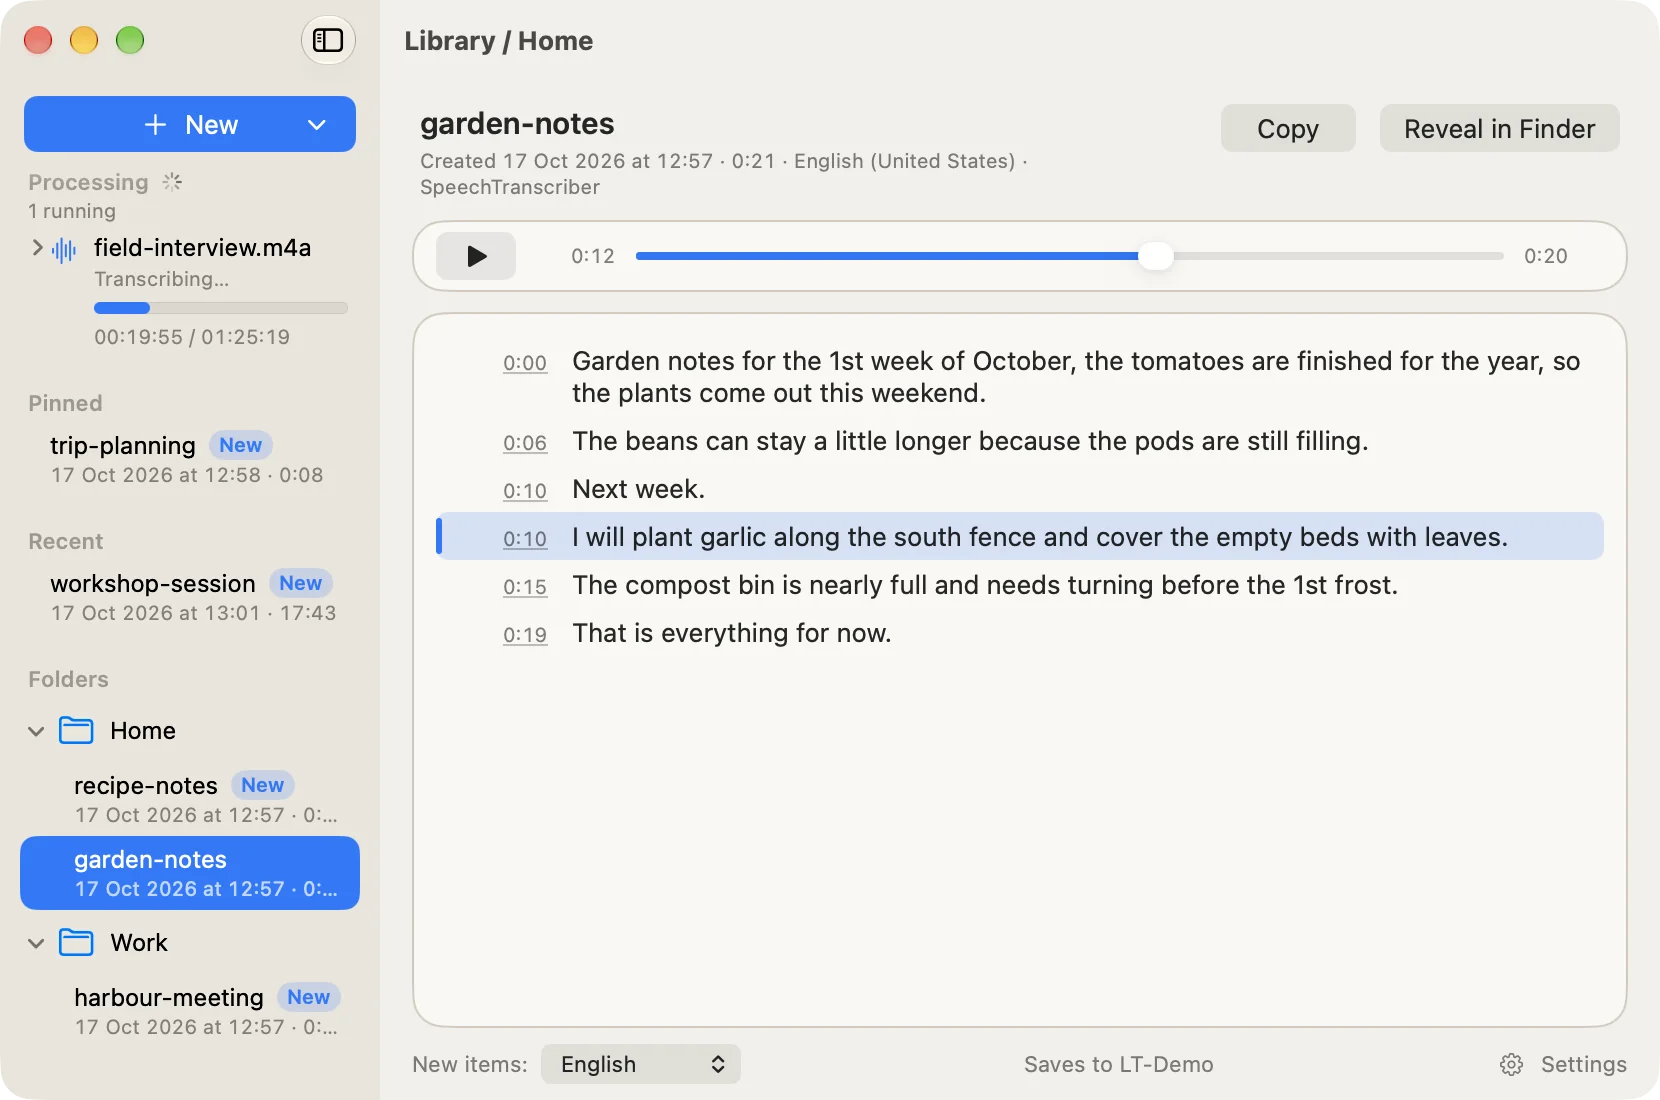
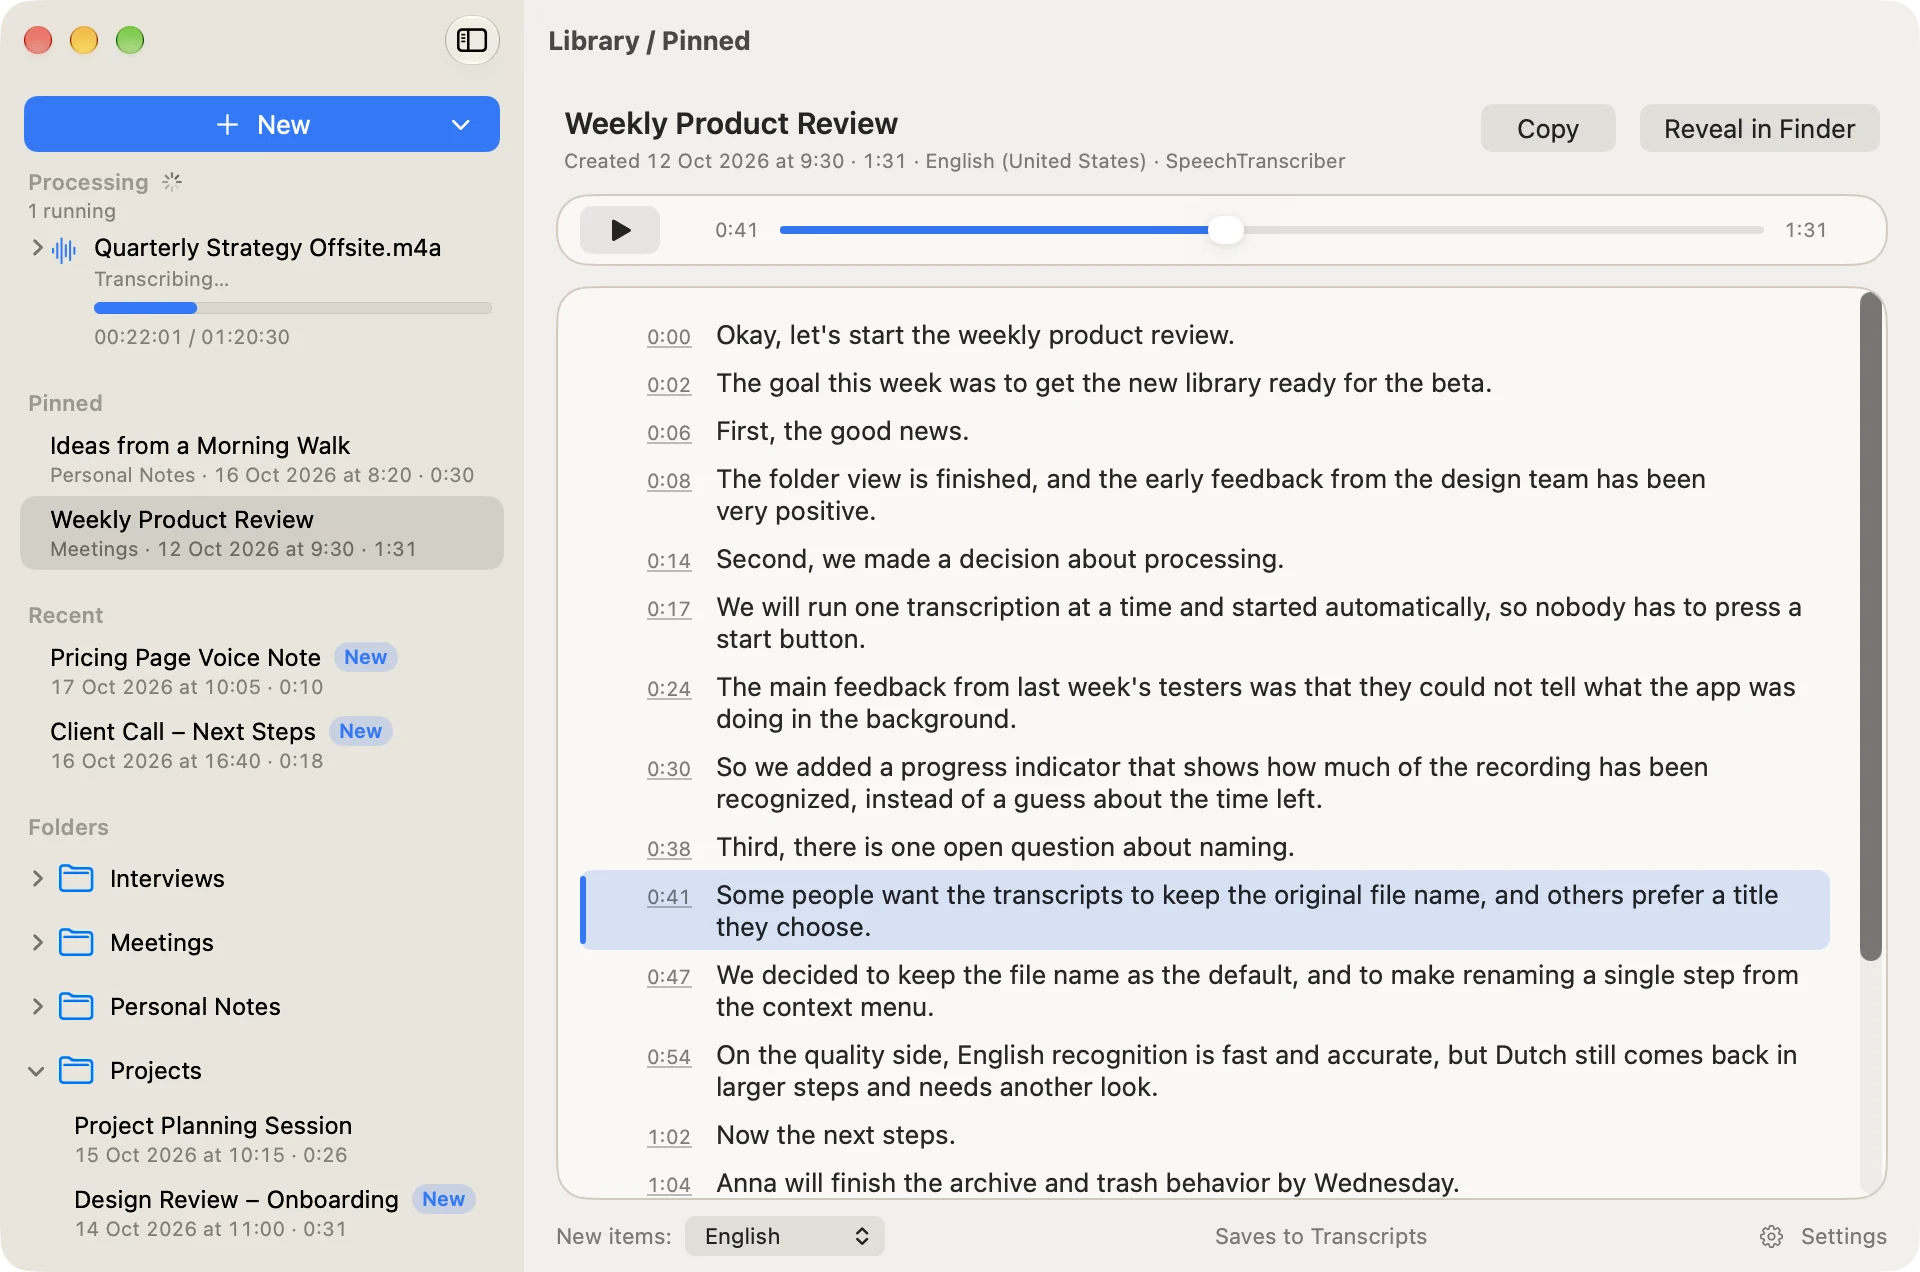
docs(website): full-window product hero, demo-library screenshot, matching social preview (LTR-62)

Changed region(s): [[0.0, 0.0, 0.9831, 0.9891], [0.7681, 0.0927, 0.9831, 0.1236]]

diff --git a/website/index.html b/website/index.html
@@ -17,12 +17,12 @@
 <meta property="og:image:type" content="image/png">
 <meta property="og:image:width" content="1200">
 <meta property="og:image:height" content="630">
-<meta property="og:image:alt" content="Local Transcriber: Media in. Markdown out. The app window with a sidebar showing a transcription in progress, a pinned transcript and folders, beside an open transcript with its current line highlighted.">
+<meta property="og:image:alt" content="Local Transcriber: Media in. Markdown out. The Local Transcriber window with a transcription in progress, pinned and recent transcripts and folders, and an open transcript with its current line highlighted.">
 <meta name="twitter:card" content="summary_large_image">
 <meta name="twitter:title" content="Local Transcriber - Media in. Markdown out.">
 <meta name="twitter:description" content="A native macOS app that turns audio, video, YouTube links and your own recordings into timestamped Markdown transcripts, with speech recognition on your Mac.">
 <meta name="twitter:image" content="https://transcribe.wavesweb.nl/og.png">
-<meta name="twitter:image:alt" content="Local Transcriber: Media in. Markdown out. The app window with a sidebar showing a transcription in progress, a pinned transcript and folders, beside an open transcript with its current line highlighted.">
+<meta name="twitter:image:alt" content="Local Transcriber: Media in. Markdown out. The Local Transcriber window with a transcription in progress, pinned and recent transcripts and folders, and an open transcript with its current line highlighted.">
 <link rel="icon" href="favicon.svg" type="image/svg+xml">
 <link rel="icon" href="favicon.png" type="image/png" sizes="32x32">
 <link rel="apple-touch-icon" href="apple-touch-icon.png">
@@ -105,28 +105,28 @@
 
     <div class="hero-visual">
       <figure class="shot">
-        <img class="shot-light" src="assets/library-light.webp" width="1660" height="1100"
-             alt="Local Transcriber: while field-interview.m4a is transcribing in the sidebar&rsquo;s Processing section, with a progress bar and its position out of 01:25:19, the Library lists a pinned transcript, a recent one and two folders, Home and Work, and the transcript garden-notes is open with a player bar at 0:12 of 0:20 and the line at 0:10, &ldquo;I will plant garlic along the south fence and cover the empty beds with leaves.&rdquo;, highlighted.">
-        <img class="shot-dark" src="assets/library-dark.webp" width="1660" height="1100"
-             alt="Local Transcriber: while field-interview.m4a is transcribing in the sidebar&rsquo;s Processing section, with a progress bar and its position out of 01:25:19, the Library lists a pinned transcript, a recent one and two folders, Home and Work, and the transcript garden-notes is open with a player bar at 0:12 of 0:20 and the line at 0:10, &ldquo;I will plant garlic along the south fence and cover the empty beds with leaves.&rdquo;, highlighted.">
+        <img class="shot-light" src="assets/library-light.webp" width="1920" height="1272"
+             alt="Local Transcriber v0.7.0, the whole window: the sidebar shows a transcription in progress under Processing with its progress bar and position, Pinned and Recent transcripts with New badges, and folders; the Weekly Product Review transcript is open with a player at 0:41 of 1:31 and timestamped lines, the line at 0:41 highlighted; the footer shows the language, the output folder and Settings.">
+        <img class="shot-dark" src="assets/library-dark.webp" width="1920" height="1272"
+             alt="Local Transcriber v0.7.0, the whole window: the sidebar shows a transcription in progress under Processing with its progress bar and position, Pinned and Recent transcripts with New badges, and folders; the Weekly Product Review transcript is open with a player at 0:41 of 1:31 and timestamped lines, the line at 0:41 highlighted; the footer shows the language, the output folder and Settings.">
       </figure>
-      <figure class="file file-float" aria-label="The saved transcript for garden-notes.m4a, opening lines">
-        <figcaption class="file-bar"><span class="file-name">garden-notes.md</span><span class="file-kind">Markdown</span></figcaption>
-<pre tabindex="0"><code><span class="md-h"># garden-notes</span>
+    </div>
 
-<span class="md-k">**Source:**</span> `garden-notes.m4a`
-<span class="md-k">**Duration:**</span> 00:00:21
+    <figure class="file file-float" aria-label="The saved Markdown file for Weekly Product Review, opening lines">
+      <figcaption class="file-bar"><span class="file-name">Weekly Product Review.md</span><span class="file-kind">Markdown, yours to keep</span></figcaption>
+<pre tabindex="0"><code><span class="md-h"># Weekly Product Review</span>
+
+<span class="md-k">**Source:**</span> `Weekly Product Review.m4a`
+<span class="md-k">**Duration:**</span> 00:01:31
 <span class="md-k">**Language:**</span> en-US
 <span class="md-k">**Engine:**</span> Apple SpeechAnalyzer
-<span class="md-k">**Transcriber:**</span> SpeechTranscriber
 
 <span class="md-h">## Transcript</span>
 
 <span class="md-h">### 00:00:00</span>
 
-Garden notes for the 1st week of October, the tomatoes are finished for the year, so the plants come out this weekend. The beans can stay a little longer because the pods are still filling. <span class="md-dim">…</span></code></pre>
-      </figure>
-    </div>
+Okay, let's start the weekly product review. The goal this week was to get the new library ready for the beta. First, the good news. The folder view is finished, and the early feedback from the design team has been very positive. <span class="md-dim">…</span></code></pre>
+    </figure>
   </div>
 </section>
 

diff --git a/website/styles.css b/website/styles.css
@@ -261,7 +261,8 @@ kbd {
 
 /* Hero ------------------------------------------------------------------ */
 
-.hero { padding: clamp(2.25rem, 5vw, 4rem) 0 clamp(3rem, 6vw, 4.5rem); overflow: clip; }
+/* overflow-x only: the screenshot's drop shadow must not be clipped at the bottom. */
+.hero { padding: clamp(2.25rem, 5vw, 4rem) 0 clamp(3rem, 6vw, 4.5rem); overflow-x: clip; }
 
 .hero-grid {
   display: grid;
@@ -298,7 +299,9 @@ kbd {
 .hero-visual { position: relative; }
 
 .shot img {
+  vertical-align: top;
   width: 100%;
+  height: auto;
   filter: var(--shot-shadow);
 }
 
@@ -336,21 +339,22 @@ kbd {
 .md-k { font-weight: 600; }
 .md-dim { color: var(--muted); }
 
-/* Overlaps only the empty lower part of the window, below the job rows. */
-.file-float {
-  position: relative;
-  width: min(19rem, 88%);
-  margin: -2rem 0 0 1rem;
-}
-.file-float pre { white-space: pre-wrap; font-size: 0.72rem; line-height: 1.5; padding: 0.85rem 1rem 1rem; }
+/* The Markdown file is a supporting card: beside the headline on wide screens,
+   below the window on narrow ones. It never overlaps the window. */
+.file-float { width: min(26rem, 100%); }
+.file-float pre { white-space: pre-wrap; font-size: 0.78rem; line-height: 1.55; padding: 0.9rem 1.05rem 1.05rem; }
 
 @media (min-width: 960px) {
-  .hero-grid { grid-template-columns: minmax(0, 1fr) minmax(0, 1fr); gap: 4rem; }
+  .hero-grid {
+    grid-template-columns: minmax(0, 1.15fr) minmax(0, 0.85fr);
+    grid-template-areas: "copy file" "shot shot";
+    gap: 2.5rem 4rem;
+    align-items: center;
+  }
   .hero h1 { font-size: min(6.2vw, 5rem); }
-  .hero-grid { align-items: start; }
-  .hero-copy { padding-top: 2.5rem; }
-  .hero-visual { margin-right: -4rem; }
-  .file-float { margin: -3.75rem 0 0 -2rem; }
+  .hero-copy { grid-area: copy; }
+  .file-float { grid-area: file; justify-self: end; }
+  .hero-visual { grid-area: shot; width: 100%; max-width: 64rem; justify-self: center; }
 }
 
 /* Sections -------------------------------------------------------------- */

diff --git a/website/journal/index.html b/website/journal/index.html
@@ -17,7 +17,7 @@
 <meta property="og:image:type" content="image/png">
 <meta property="og:image:width" content="1200">
 <meta property="og:image:height" content="630">
-<meta property="og:image:alt" content="Local Transcriber: Media in. Markdown out. The app window with a sidebar showing a transcription in progress, a pinned transcript and folders, beside an open transcript with its current line highlighted.">
+<meta property="og:image:alt" content="Local Transcriber: Media in. Markdown out. The Local Transcriber window with a transcription in progress, pinned and recent transcripts and folders, and an open transcript with its current line highlighted.">
 <meta name="twitter:card" content="summary_large_image">
 <link rel="icon" href="/favicon.svg" type="image/svg+xml">
 <link rel="icon" href="/favicon.png" type="image/png" sizes="32x32">

diff --git a/README.md b/README.md
@@ -6,10 +6,10 @@ Local Transcriber is a native macOS app that turns audio, video, YouTube links a
 
 <picture>
   <source media="(prefers-color-scheme: dark)" srcset="https://transcribe.wavesweb.nl/assets/library-dark.webp">
-  <img src="https://transcribe.wavesweb.nl/assets/library-light.webp" alt="Local Transcriber transcribing a long file, with its progress in the sidebar's Processing section, while the Library shows folders and an open transcript with its player.">
+  <img src="https://transcribe.wavesweb.nl/assets/library-light.webp" alt="The Local Transcriber window: Processing shows a long file being transcribed with its progress, while the Library lists pinned and recent transcripts and folders, and the open Weekly Product Review transcript plays with the current line highlighted.">
 </picture>
 
-*One file is transcribing in the background (Processing, top of the sidebar) while the Library, with a pinned transcript and two folders, stays open on a transcript and its player.*
+*One file is transcribing in the background (Processing, top of the sidebar) while the Library, with pinned and recent transcripts, New badges and folders, stays open on a transcript: timestamped lines, a player, and the line being played highlighted. The same transcript is saved as a Markdown file you keep.*
 
 ## Download
 
